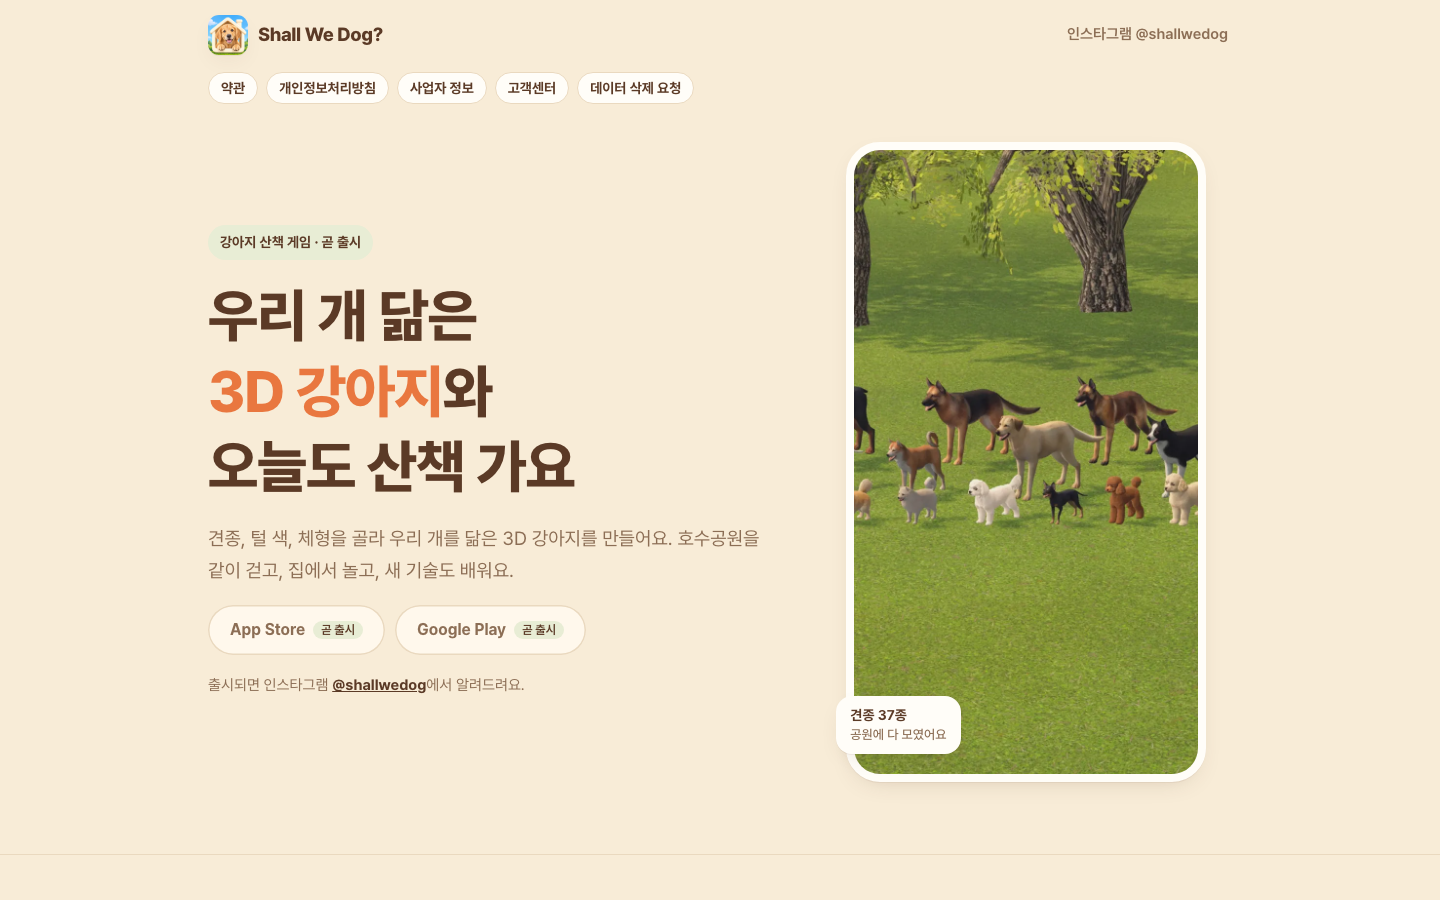
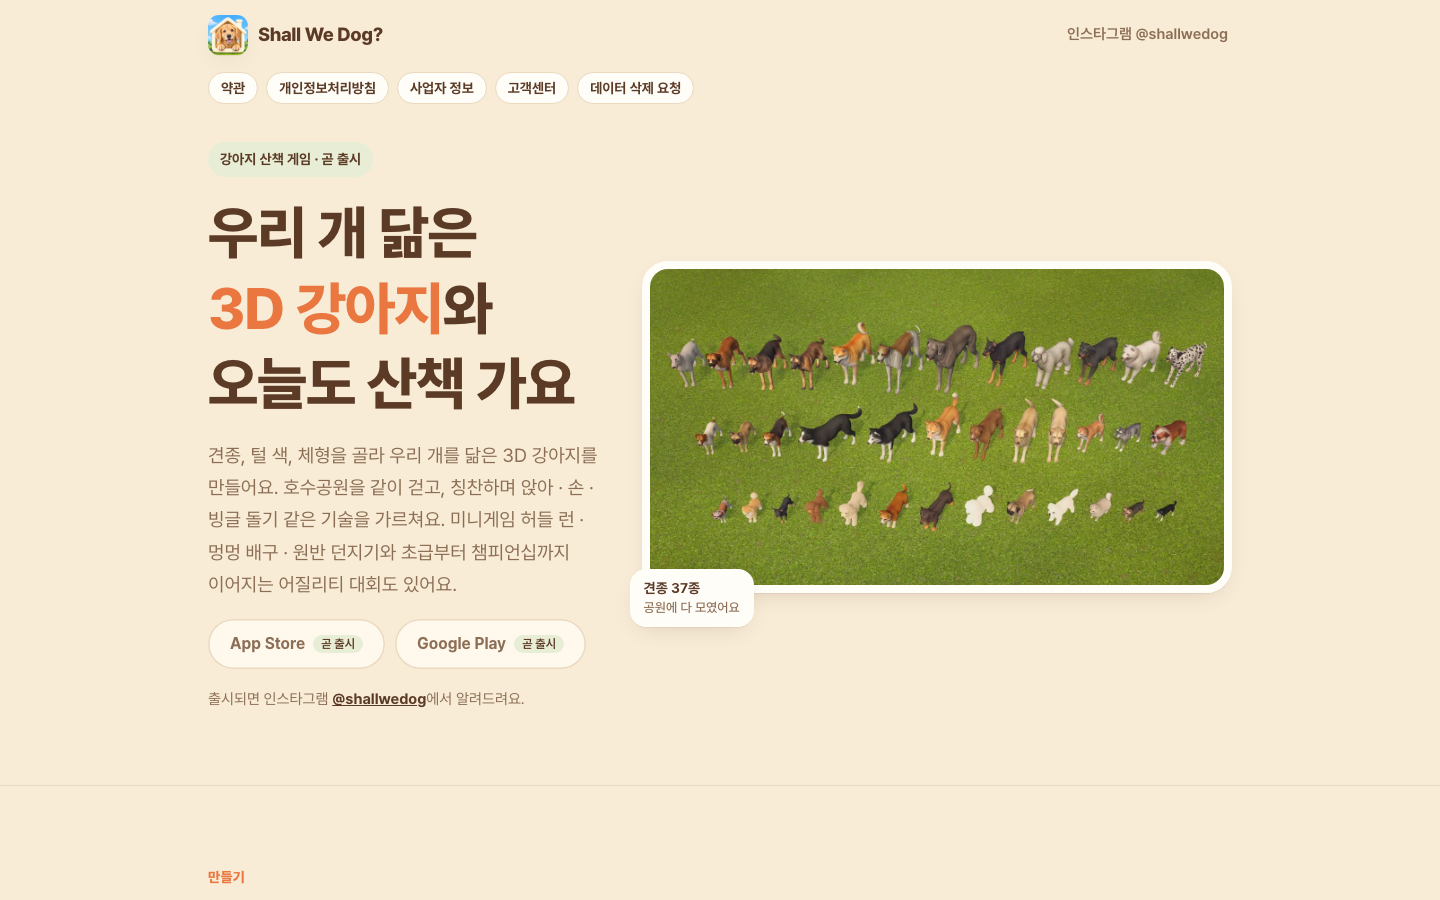
첫 화면 단체 사진 새로(탭 1 · 45도 세 줄): PC 16:9 넓은 틀 · 휴대폰 4:3 그림을 글 위로 · 전후 캡처

diff --git a/assets/css/site.css b/assets/css/site.css
@@ -84,8 +84,10 @@ p{margin:0}
   font-size:14px; font-weight:700; line-height:1.4}
 .hero-pic .tag span{display:block; font-weight:500; color:var(--sub); font-size:13px}
 @media (min-width:860px){
-  .hero{grid-template-columns:minmax(0,1.15fr) minmax(0,.85fr); gap:56px; padding-block:32px 72px}
-  .hero-pic{width:100%; max-width:360px}
+  .hero{grid-template-columns:minmax(0,.8fr) minmax(0,1.2fr); gap:40px; padding-block:32px 72px}
+  .hero-pic{width:100%; max-width:none}
+  .phone{aspect-ratio:16/9; border-radius:26px}
+  .hero-pic .tag{bottom:-34px; left:-12px}
 }
 
 /* 섹션 공통 */
@@ -215,7 +217,7 @@ p{margin:0}
 .walkpic figcaption{font-size:13px; font-weight:600; color:var(--sub); margin-top:8px; text-align:center}
 .phone picture{display:block; width:100%; height:100%}
 @media (max-width:859px){
-  .hero-pic{width:100%; max-width:420px}
+  .hero-pic{width:100%; max-width:420px; order:-1; margin-bottom:14px}
   .phone{aspect-ratio:4/3; border-radius:24px; border-width:6px}
   .hero-pic .tag{bottom:-16px; left:12px}
 }

diff --git a/ja/index.html b/ja/index.html
@@ -70,7 +70,7 @@
       <p class="notice">配信が始まったらInstagram <a href="https://www.instagram.com/shallwedog/" rel="noopener">@shallwedog</a>でお知らせします。</p>
     </div>
     <div class="hero-pic">
-      <div class="phone"><picture><source media="(max-width:859px)" srcset="/assets/img/hero-lineup-m.webp" width="1040" height="780"><img src="/assets/img/hero-lineup.webp" width="720" height="1280" alt="公園の芝生に集まった、さまざまな犬種の3Dの犬たち(ゲーム画面)" fetchpriority="high"></picture></div>
+      <div class="phone"><picture><source media="(max-width:859px)" srcset="/assets/img/hero-lineup-m.webp" width="1040" height="780"><img src="/assets/img/hero-lineup-wide.webp" width="1280" height="720" alt="公園の芝生に集まった、さまざまな犬種の3Dの犬たち(ゲーム画面)" fetchpriority="high"></picture></div>
       <p class="tag">37犬種<span>公園に勢ぞろい</span></p>
     </div>
   </section>

diff --git a/index.html b/index.html
@@ -70,7 +70,7 @@
       <p class="notice">출시되면 인스타그램 <a href="https://www.instagram.com/shallwedog/" rel="noopener">@shallwedog</a>에서 알려드려요.</p>
     </div>
     <div class="hero-pic">
-      <div class="phone"><picture><source media="(max-width:859px)" srcset="/assets/img/hero-lineup-m.webp" width="1040" height="780"><img src="/assets/img/hero-lineup.webp" width="720" height="1280" alt="게임 속 견종이 공원 잔디밭에 한자리에 모인 3D 강아지들" fetchpriority="high"></picture></div>
+      <div class="phone"><picture><source media="(max-width:859px)" srcset="/assets/img/hero-lineup-m.webp" width="1040" height="780"><img src="/assets/img/hero-lineup-wide.webp" width="1280" height="720" alt="게임 속 견종이 공원 잔디밭에 한자리에 모인 3D 강아지들" fetchpriority="high"></picture></div>
       <p class="tag">견종 37종<span>공원에 다 모였어요</span></p>
     </div>
   </section>

diff --git a/es/index.html b/es/index.html
@@ -70,7 +70,7 @@
       <p class="notice">Anunciaremos el lanzamiento en Instagram <a href="https://www.instagram.com/shallwedog/" rel="noopener">@shallwedog</a>.</p>
     </div>
     <div class="hero-pic">
-      <div class="phone"><picture><source media="(max-width:859px)" srcset="/assets/img/hero-lineup-m.webp" width="1040" height="780"><img src="/assets/img/hero-lineup.webp" width="720" height="1280" alt="Perros 3D de muchas razas reunidos en el césped del parque (pantalla del juego)" fetchpriority="high"></picture></div>
+      <div class="phone"><picture><source media="(max-width:859px)" srcset="/assets/img/hero-lineup-m.webp" width="1040" height="780"><img src="/assets/img/hero-lineup-wide.webp" width="1280" height="720" alt="Perros 3D de muchas razas reunidos en el césped del parque (pantalla del juego)" fetchpriority="high"></picture></div>
       <p class="tag">37 razas<span>Todas juntas en el parque</span></p>
     </div>
   </section>

diff --git a/en/index.html b/en/index.html
@@ -70,7 +70,7 @@
       <p class="notice">We’ll announce the launch on Instagram <a href="https://www.instagram.com/shallwedog/" rel="noopener">@shallwedog</a>.</p>
     </div>
     <div class="hero-pic">
-      <div class="phone"><picture><source media="(max-width:859px)" srcset="/assets/img/hero-lineup-m.webp" width="1040" height="780"><img src="/assets/img/hero-lineup.webp" width="720" height="1280" alt="Game screen of 3D dogs of many breeds gathered on the park lawn" fetchpriority="high"></picture></div>
+      <div class="phone"><picture><source media="(max-width:859px)" srcset="/assets/img/hero-lineup-m.webp" width="1040" height="780"><img src="/assets/img/hero-lineup-wide.webp" width="1280" height="720" alt="Game screen of 3D dogs of many breeds gathered on the park lawn" fetchpriority="high"></picture></div>
       <p class="tag">37 breeds<span>All together in the park</span></p>
     </div>
   </section>
